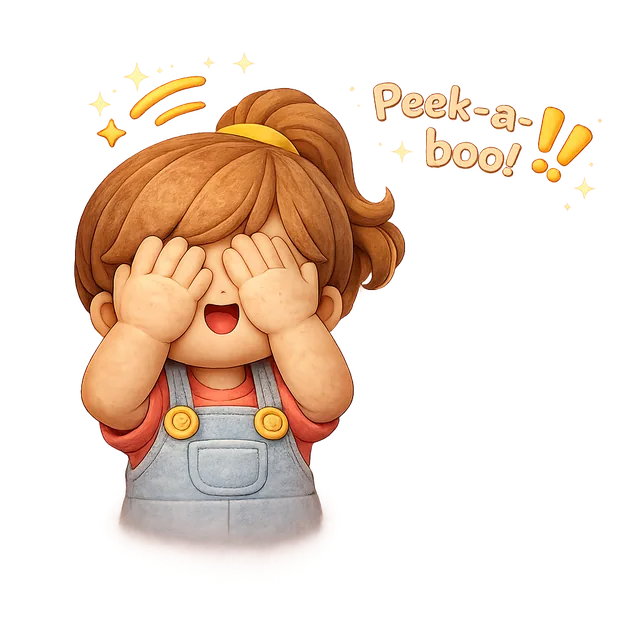
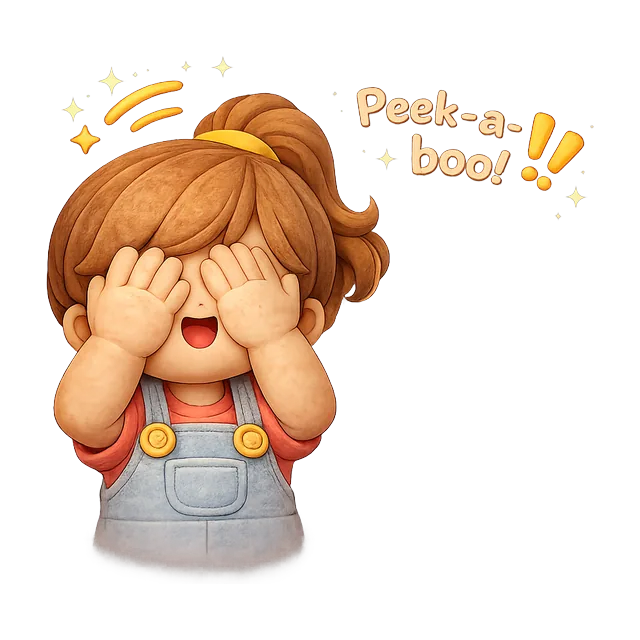
Stop squashing step pictures that are not square
The compressor forced every master into a 640 square, so the one drawing
that was landscape came out squeezed by half again and the girl's face
went narrow. It now fits the drawing inside the square and keeps its
shape, whatever shape that is.

Steps are named on the list rather than numbered.

Changed region(s): [[0.0625, 0.0938, 0.9375, 0.9062]]

diff --git a/js/app.js b/js/app.js
@@ -144,7 +144,7 @@ function stepRevealItem(unit, entry, i) {
   const isDone = completed.has(`${unit.n}:${entry.id}`);
   return {
     object: stepArt(entry),
-    caption: 'Step ' + (i + 1) + (isDone ? ' ✓' : ''),
+    caption: mod.title + (isDone ? ' ✓' : ''),
     ariaLabel: `Step ${i + 1} — ${mod.title}${isDone ? ' — completed' : ''} — tap to start!`,
     onSelect: () => {
       hubIndex.set(unit.n, i);

diff --git a/tools/compress_step_art.py b/tools/compress_step_art.py
@@ -7,13 +7,22 @@ from PIL import Image
 REPO = Path(__file__).resolve().parent.parent
 STEPS = REPO / "assets" / "steps"
 TARGET = 640
+MARGIN = 46
 QUALITY = 82
 
 
 def compress(master_path, out_path):
     with Image.open(master_path) as im:
-        resized = im.convert("RGBA").resize((TARGET, TARGET), Image.LANCZOS)
-        resized.save(out_path, format="WEBP", quality=QUALITY, alpha_quality=92, method=6)
+        art = im.convert("RGBA")
+        bbox = art.split()[3].point(lambda v: 255 if v > 32 else 0).getbbox()
+        if bbox:
+            art = art.crop(bbox)
+        width, height = art.size
+        scale = (TARGET - 2 * MARGIN) / max(width, height)
+        art = art.resize((round(width * scale), round(height * scale)), Image.LANCZOS)
+        canvas = Image.new("RGBA", (TARGET, TARGET), (0, 0, 0, 0))
+        canvas.paste(art, ((TARGET - art.width) // 2, (TARGET - art.height) // 2), art)
+        canvas.save(out_path, format="WEBP", quality=QUALITY, alpha_quality=92, method=6)
     return out_path.stat().st_size
 
 
